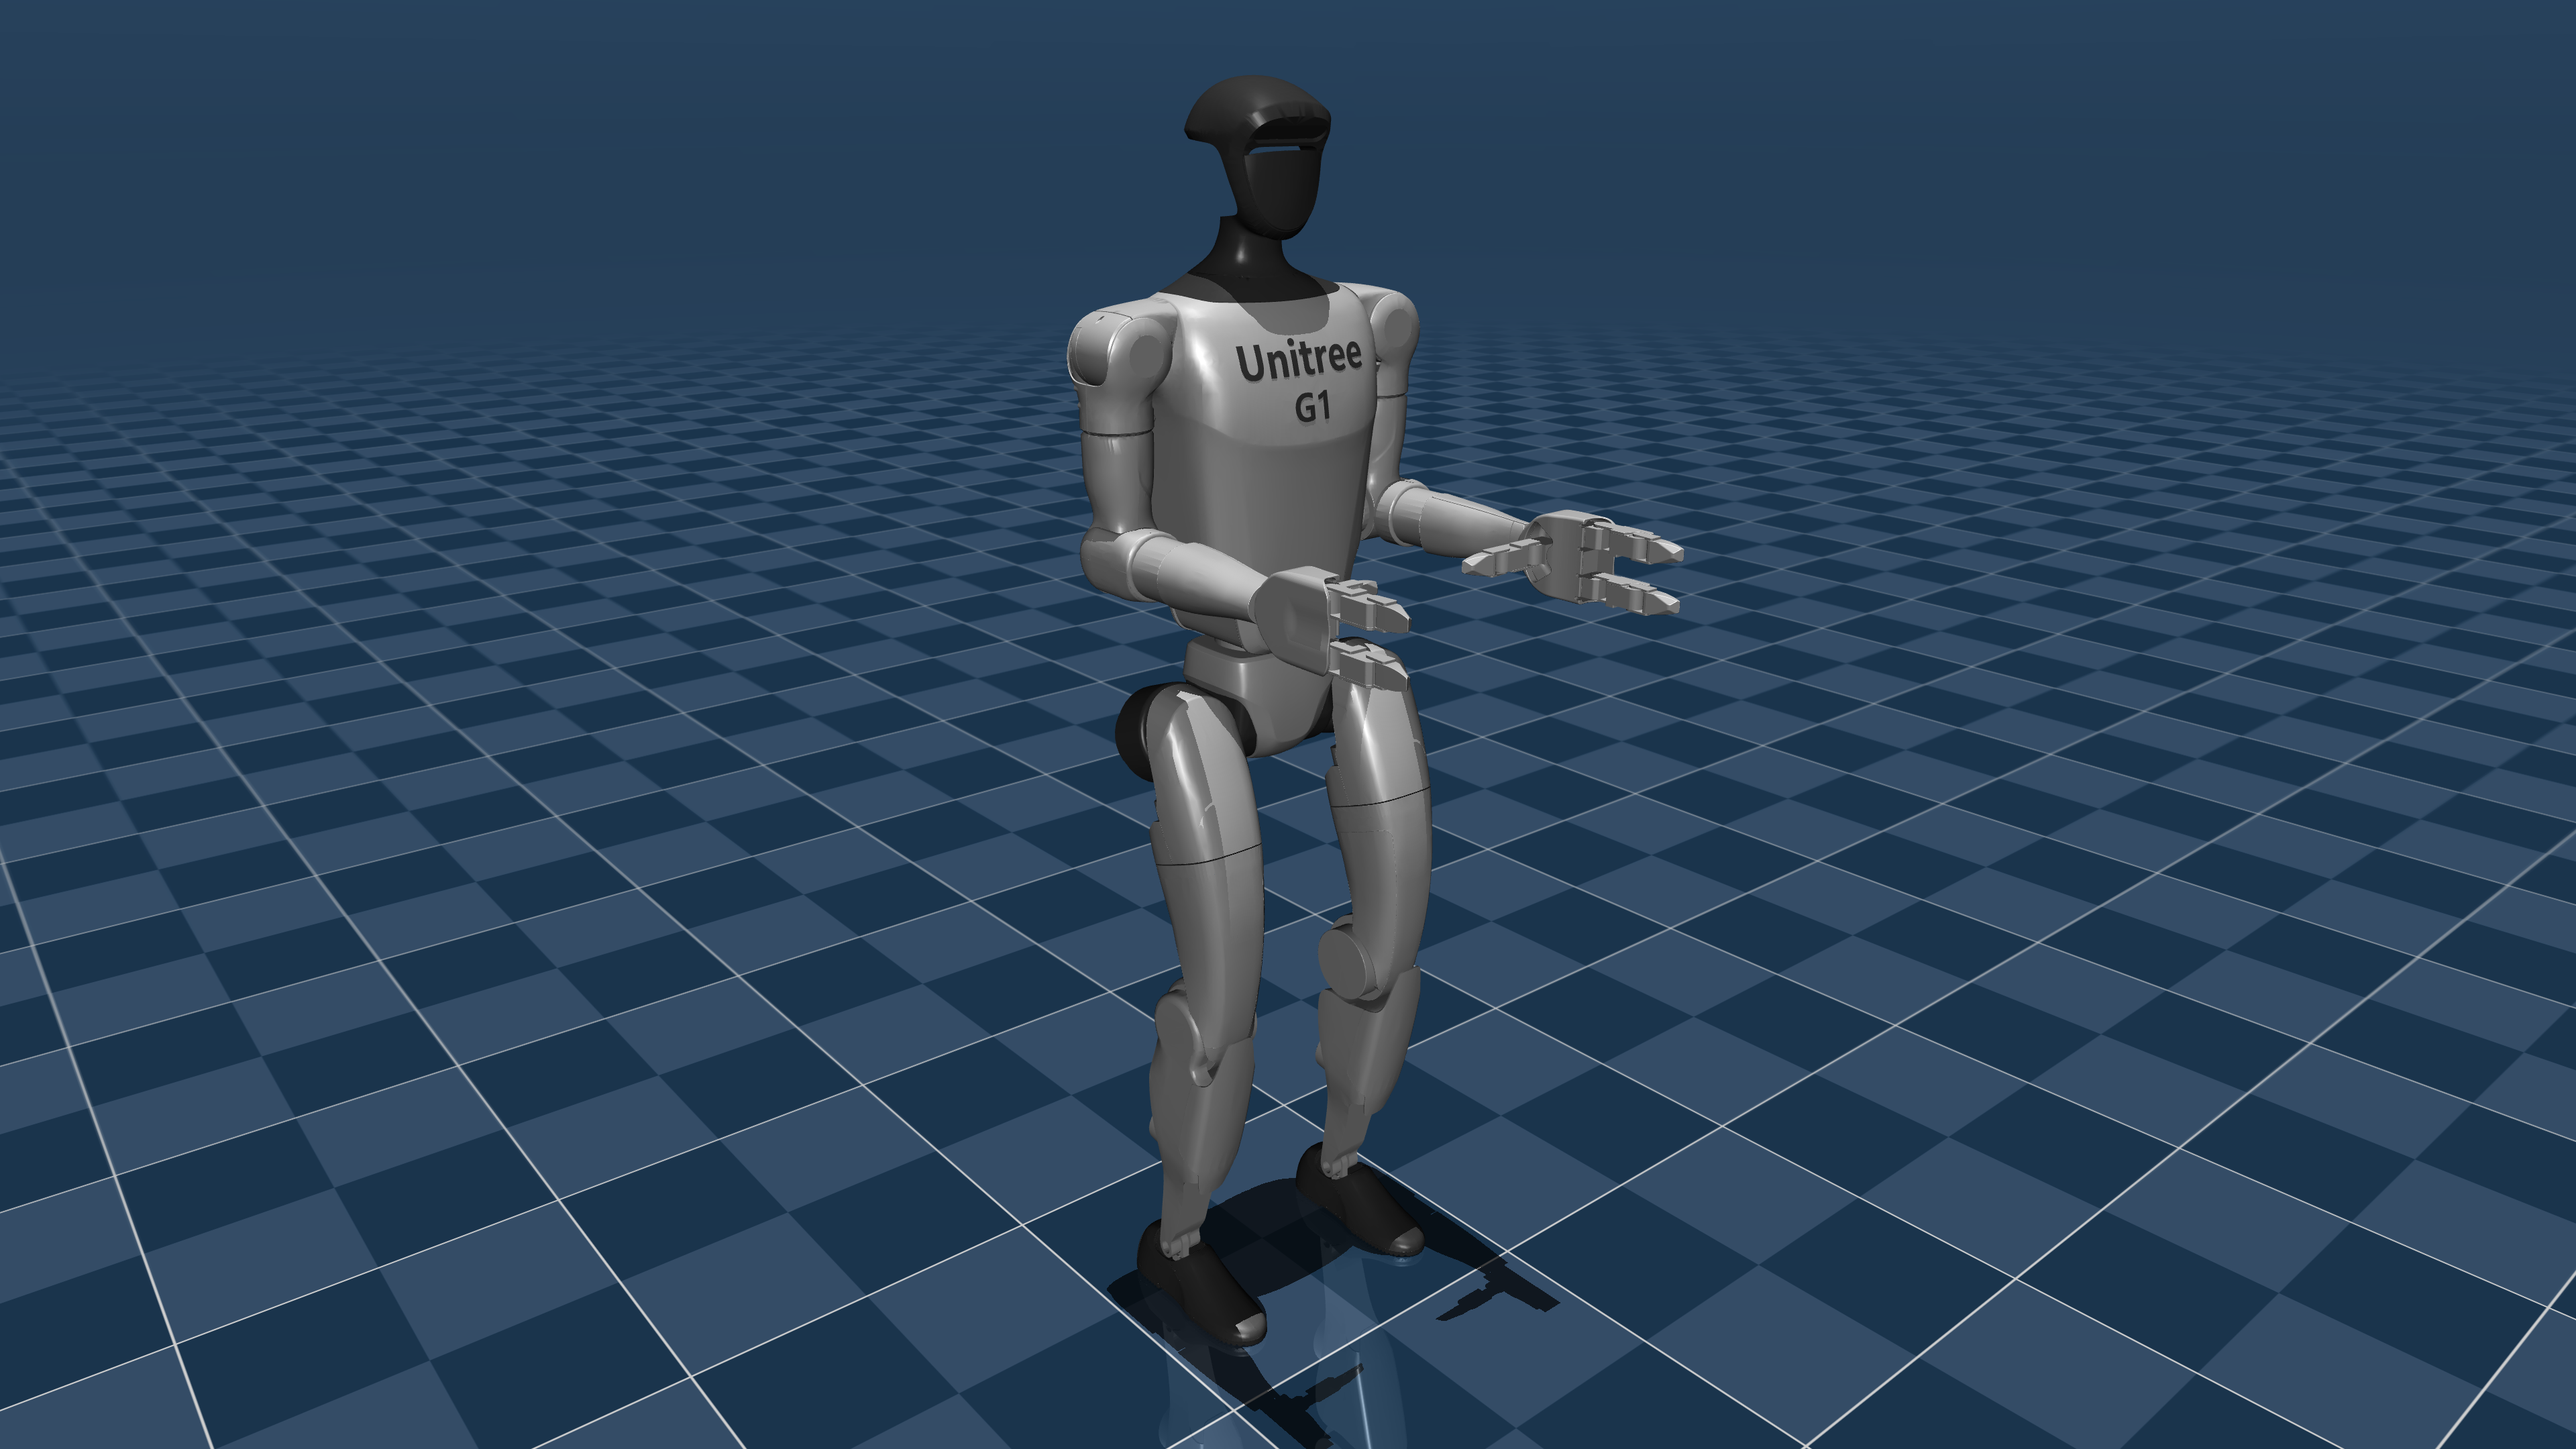
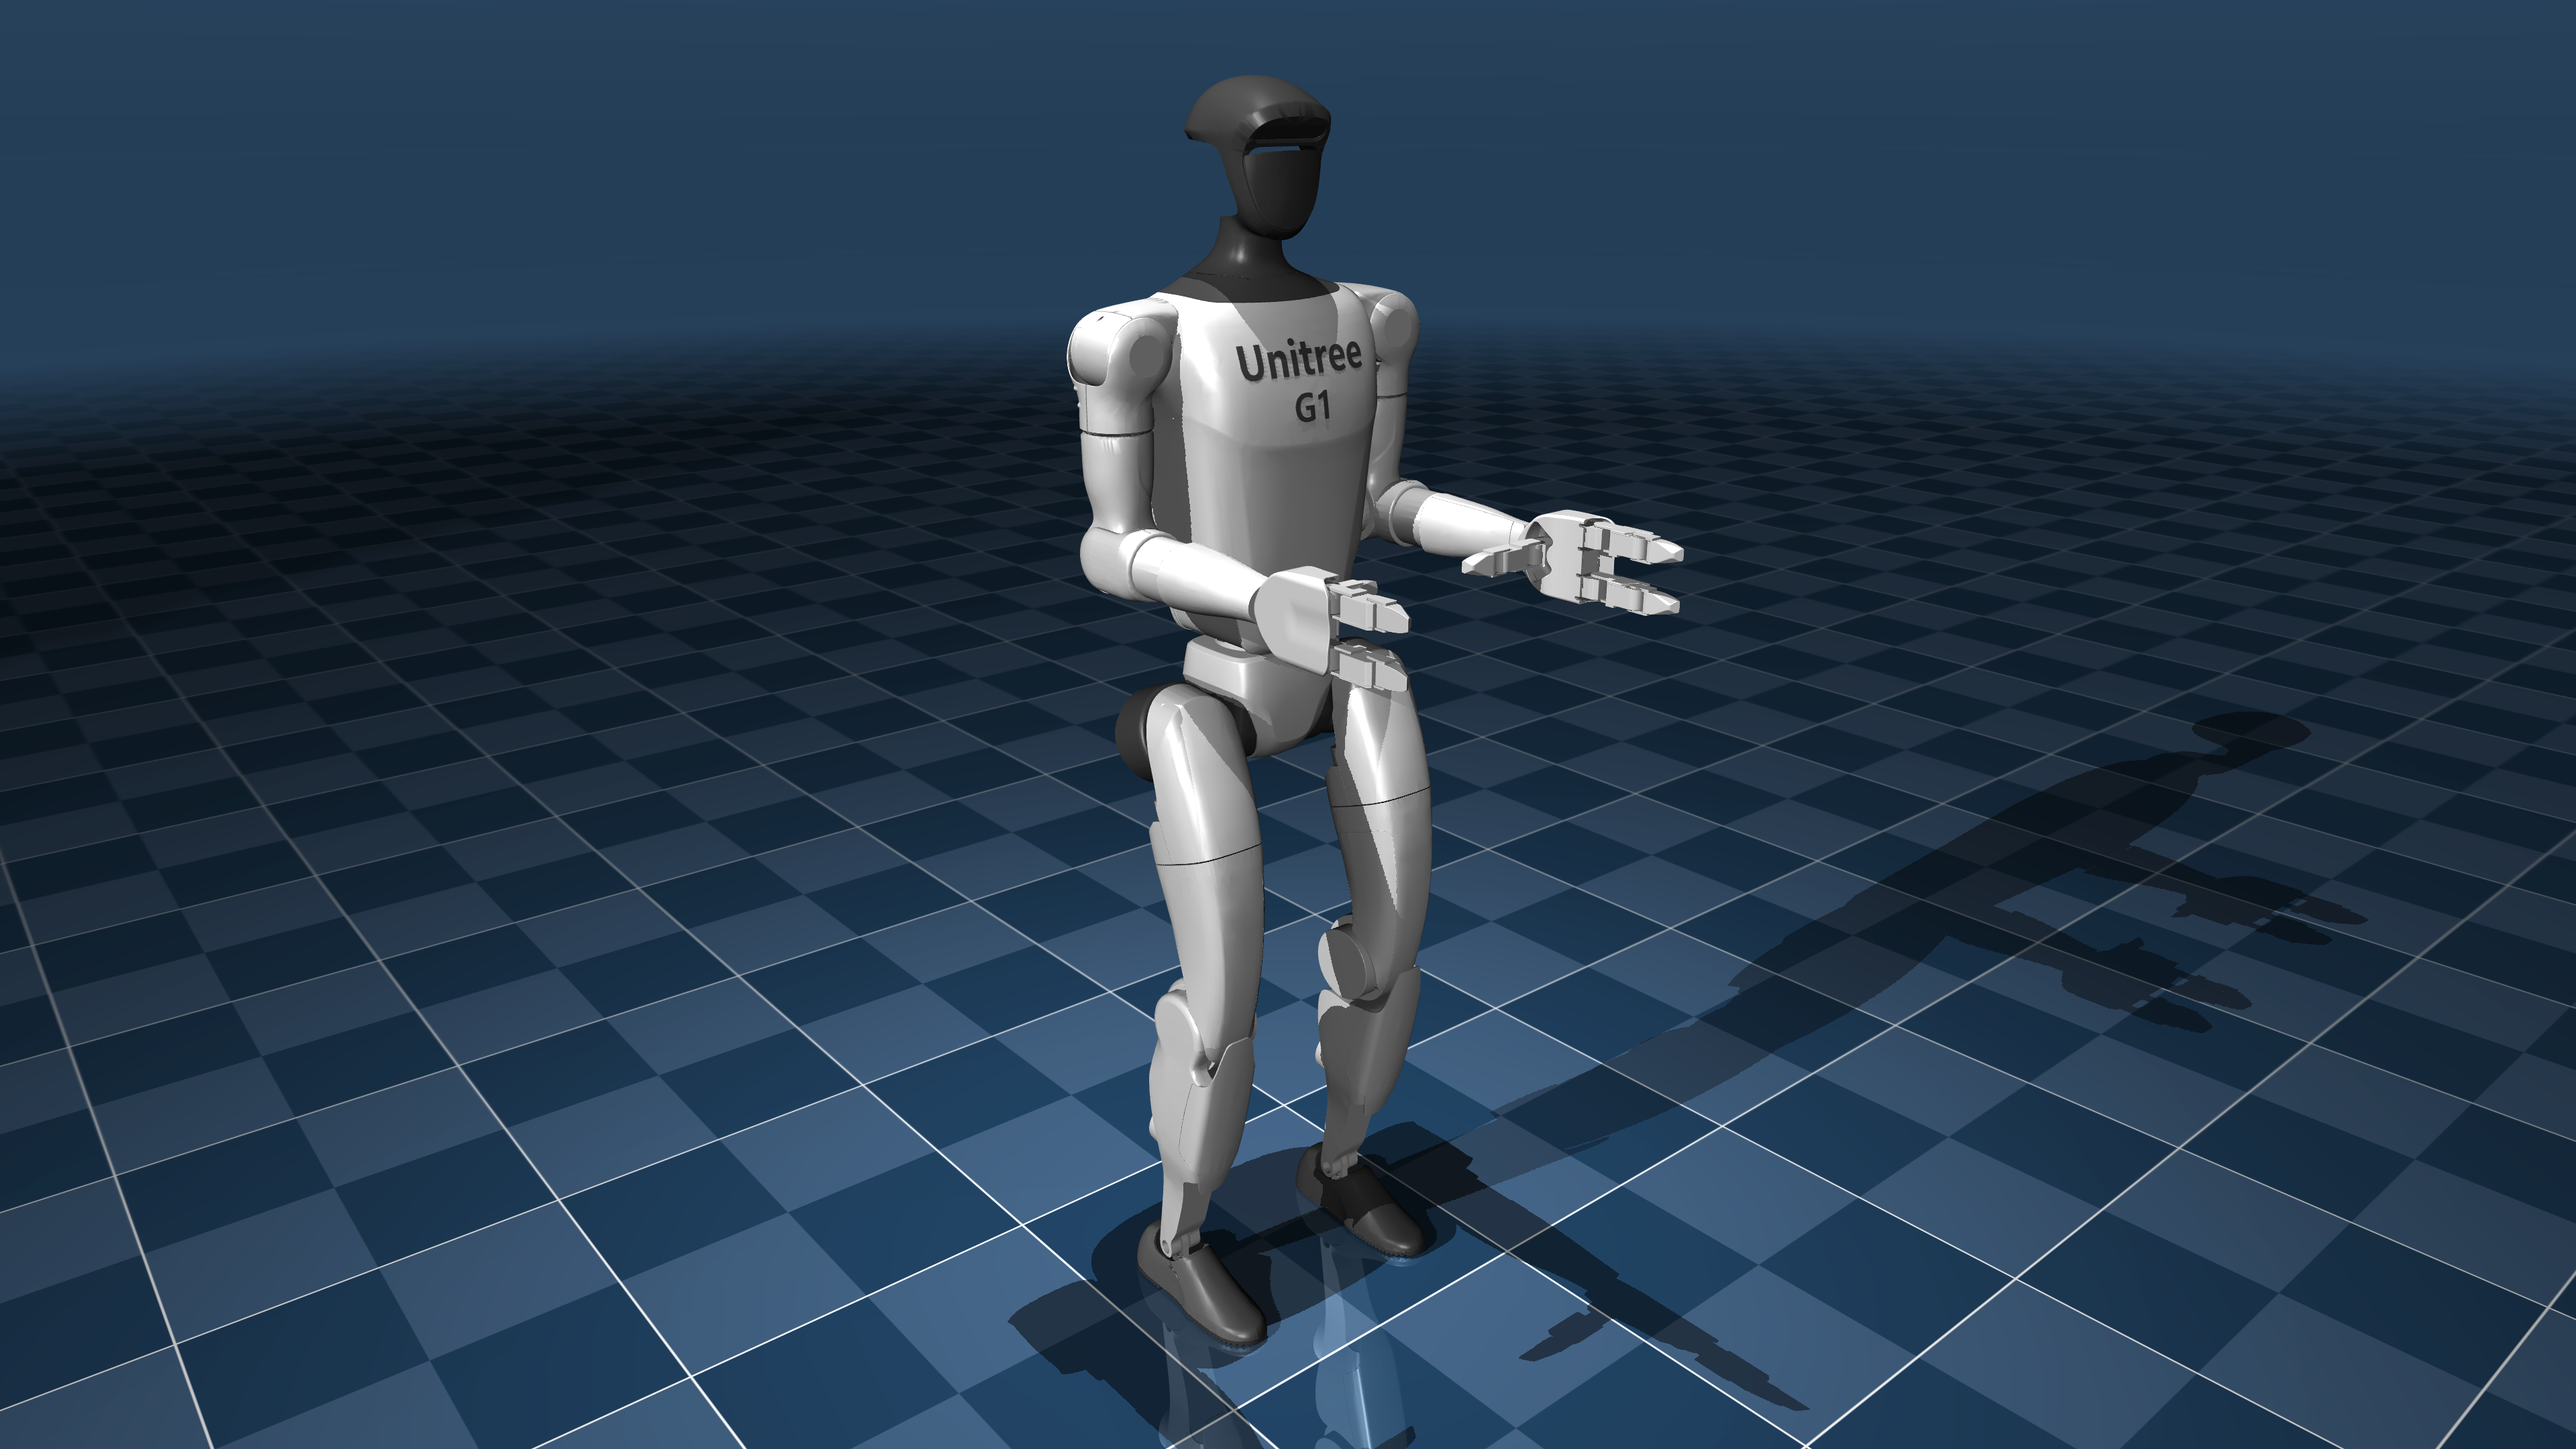
Improve G1 README.
PiperOrigin-RevId: 635556679

diff --git a/unitree_g1/README.md b/unitree_g1/README.md
@@ -18,6 +18,10 @@ description](https://github.com/unitreerobotics/unitree_ros/tree/master/robots/g
 
 1. Copied the MJCF description from [g1_description](https://github.com/unitreerobotics/unitree_ros/tree/master/robots/g1_description).
 2. Manually edited the MJCF to extract common properties into the `<default>` section.
+3. Added sites for the IMU, head and feet.
+4. Add IMU sensor (gyro, accelero, framequat).
+5. Added stand keyframe.
+6. Added spotlight and tracking light.
 
 ## License
 
